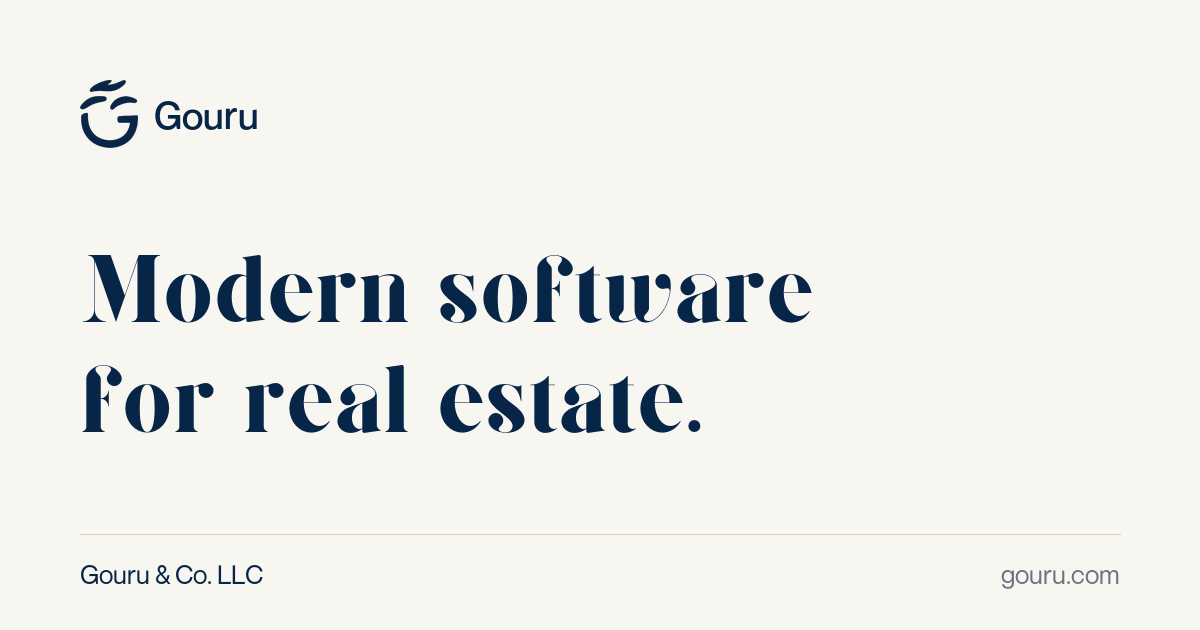
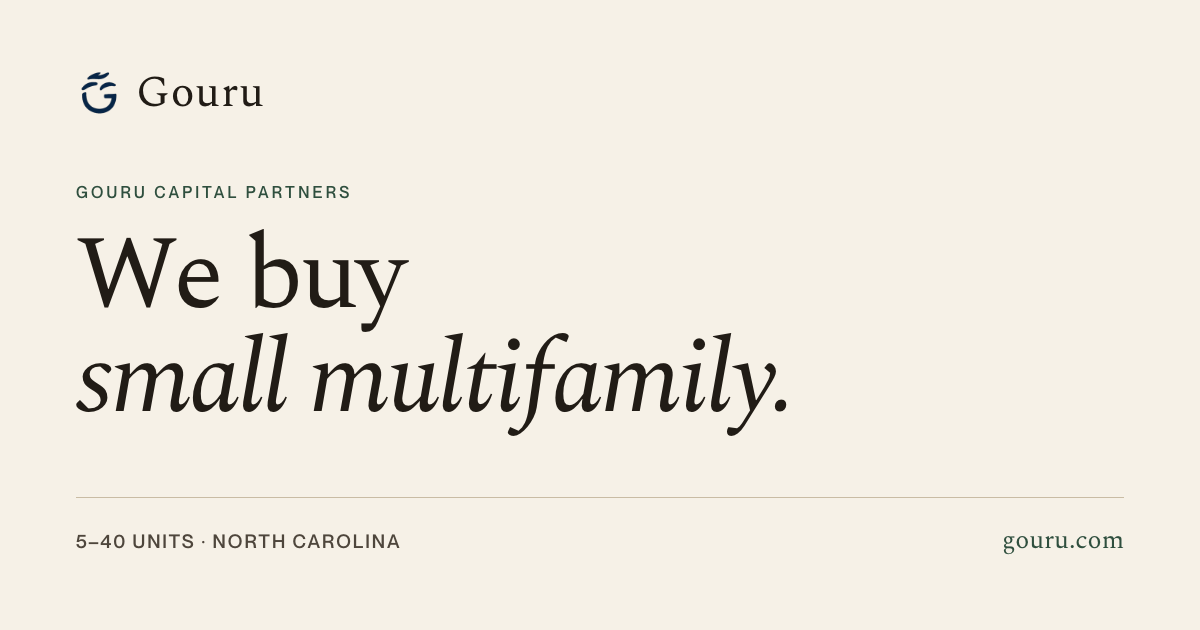
Redraw the social preview for the new design
The Open Graph image still showed the old identity — Giaza wordmark on
navy, "Modern software for real estate." — so every link shared to
iMessage, Slack or LinkedIn advertised a company that no longer exists.

Redrawn at 1200x630 in the current design: Spectral on bone paper, olive
accent, "We buy small multifamily." with the buy box and market in the
footer rule. Rendered from the site's own fonts rather than approximated,
so the picture and the page agree.

The image URL now carries a version query, sourced from SITE.ogVersion.
Those platforms key their cache on the URL and hold it for a long time,
so replacing the file alone would have kept serving the old picture.
Bump that number whenever the image is redrawn.

Also adds og:image:alt and twitter:image:alt, which were missing.

diff --git a/src/consts.ts b/src/consts.ts
@@ -58,6 +58,15 @@ export const SITE = {
    */
   web3formsKey: "0b0b760e-0aee-4270-a3c2-8d8dfb68e9a8",
 
+  /**
+   * Cache-buster for the social preview image.
+   *
+   * iMessage, Slack, LinkedIn and the rest key their cache on the image URL
+   * and hold it for a long time. Whenever public/og-image.png is redrawn,
+   * bump this number or those platforms keep serving the old picture.
+   */
+  ogVersion: "2",
+
   /** Date the legal pages were last reviewed. */
   legalUpdated: "September 21, 2026",
 } as const;
